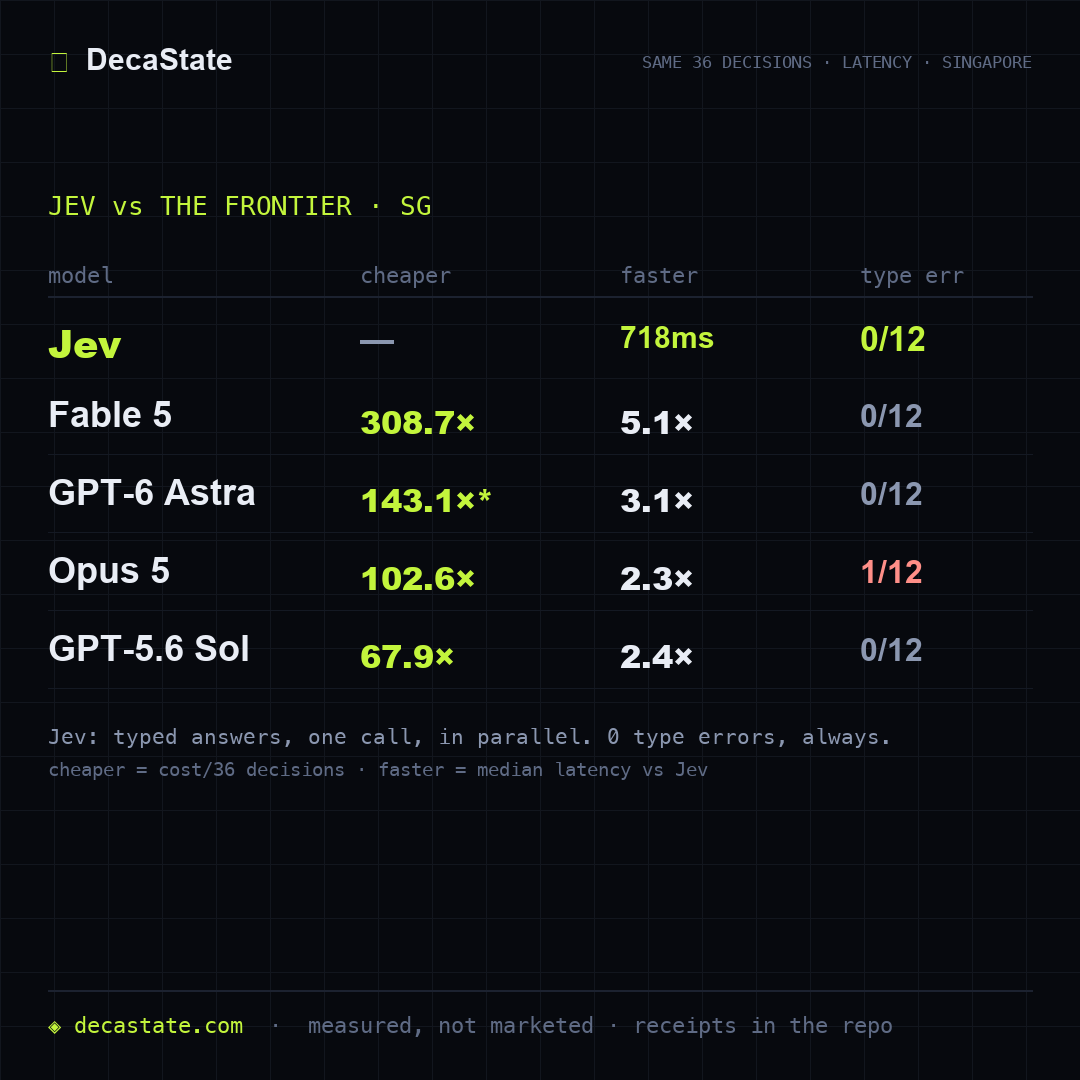
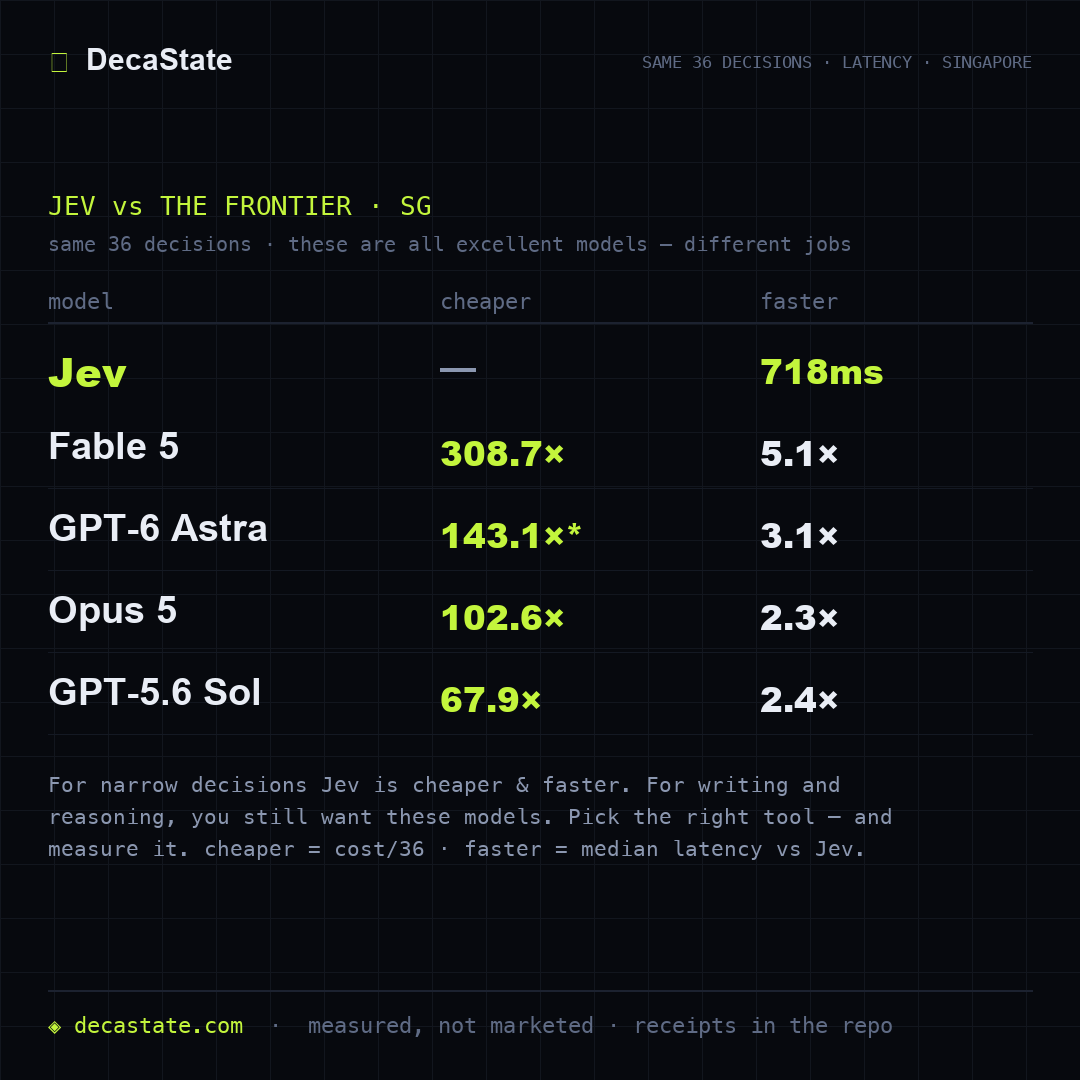
Reframe matrix cards: not an attack — 'right tool for the job'
Dropped the per-model type-error column that singled out Opus 5 (2/12) in red
— thin sample, bad optics (we run on Claude), and off-message. Cards now lead
'these are all excellent models — different jobs' and close 'for writing and
reasoning you still want these models; pick the right tool and measure it.'
Full per-model type-safety data stays in the repo receipts (transparent),
just not weaponized on a shareable graphic.

diff --git a/marketing/make_matrix_assets.py b/marketing/make_matrix_assets.py
@@ -90,33 +90,34 @@ def region_card(data, region):
     base(d); tag = "FAIR LATENCY · US-WEST" if region == "US" else "LATENCY · SINGAPORE"
     header(d, f"SAME 36 DECISIONS · {tag}")
     d.text((48, 190), f"JEV vs THE FRONTIER · {region}", font=mono(26), fill=LIME)
-    hy = 262
-    for x, t in [(360, "cheaper"), (620, "faster"), (860, "type err")]:
+    d.text((48, 232), "same 36 decisions · these are all excellent models — different jobs",
+           font=mono(20), fill=DIMMER)
+    hy = 288
+    for x, t in [(440, "cheaper"), (760, "faster")]:
         d.text((x, hy), t, font=mono(22), fill=DIMMER)
     d.text((48, hy), "model", font=mono(22), fill=DIMMER)
     d.line([(48, hy + 34), (1032, hy + 34)], fill=(28, 34, 48), width=2)
     y = hy + 54
-    d.text((48, y), "Jev", font=black(38), fill=LIME)
-    d.text((360, y + 4), "—", font=bold(34), fill=DIM)
-    d.text((620, y + 4), f"{data['models']['jev']['latency_ms_median']:.0f}ms", font=bold(30), fill=LIME)
-    d.text((860, y + 4), f"0/{12}", font=bold(34), fill=LIME)
-    y += 78
+    d.text((48, y), "Jev", font=black(40), fill=LIME)
+    d.text((440, y + 4), "—", font=bold(36), fill=DIM)
+    d.text((760, y + 4), f"{data['models']['jev']['latency_ms_median']:.0f}ms", font=black(34), fill=LIME)
+    y += 82
     for name, m in others_sorted(data, "vs_jev_cheaper_x"):
         star = "*" if name in ASSUMED_PRICING else ""
-        te = m.get("type_errors", 0)
-        d.text((48, y), PRETTY.get(name, name), font=bold(36), fill=WHITE)
-        d.text((360, y + 4), f"{m['vs_jev_cheaper_x']:g}×{star}", font=black(32), fill=LIME)
-        d.text((620, y + 4), f"{m['vs_jev_slower_x']:g}×", font=black(32), fill=WHITE)
-        d.text((860, y + 4), f"{te}/12", font=bold(32), fill=(CORAL if te else DIM))
-        d.line([(48, y + 60), (1032, y + 60)], fill=(20, 25, 35), width=1)
-        y += 78
-    d.text((48, y + 18), "Jev: typed answers, one call, in parallel. 0 type errors, always.",
+        d.text((48, y), PRETTY.get(name, name), font=bold(38), fill=WHITE)
+        d.text((440, y + 4), f"{m['vs_jev_cheaper_x']:g}×{star}", font=black(34), fill=LIME)
+        d.text((760, y + 4), f"{m['vs_jev_slower_x']:g}×", font=black(34), fill=WHITE)
+        d.line([(48, y + 64), (1032, y + 64)], fill=(20, 25, 35), width=1)
+        y += 82
+    d.text((48, y + 20), "For narrow decisions Jev is cheaper & faster. For writing and",
            font=mono(21), fill=DIM)
-    d.text((48, y + 52), "cheaper = cost/36 decisions · faster = median latency vs Jev",
-           font=mono(19), fill=DIMMER)
+    d.text((48, y + 52), "reasoning, you still want these models. Pick the right tool — and",
+           font=mono(21), fill=DIM)
+    d.text((48, y + 84), "measure it. cheaper = cost/36 · faster = median latency vs Jev.",
+           font=mono(21), fill=DIM)
     if region == "US":
-        d.text((48, y + 84), "measured from OCI Phoenix · SG numbers in the repo too",
-               font=mono(19), fill=DIMMER)
+        d.text((48, y + 124), "measured from OCI Phoenix · both regions + type-safety data in the repo",
+               font=mono(18), fill=DIMMER)
     footer(d)
     img.save(os.path.join(HERE, f"decastate_matrix_{region.lower()}_1x1.png"))
     print(f"{region} card ok")
